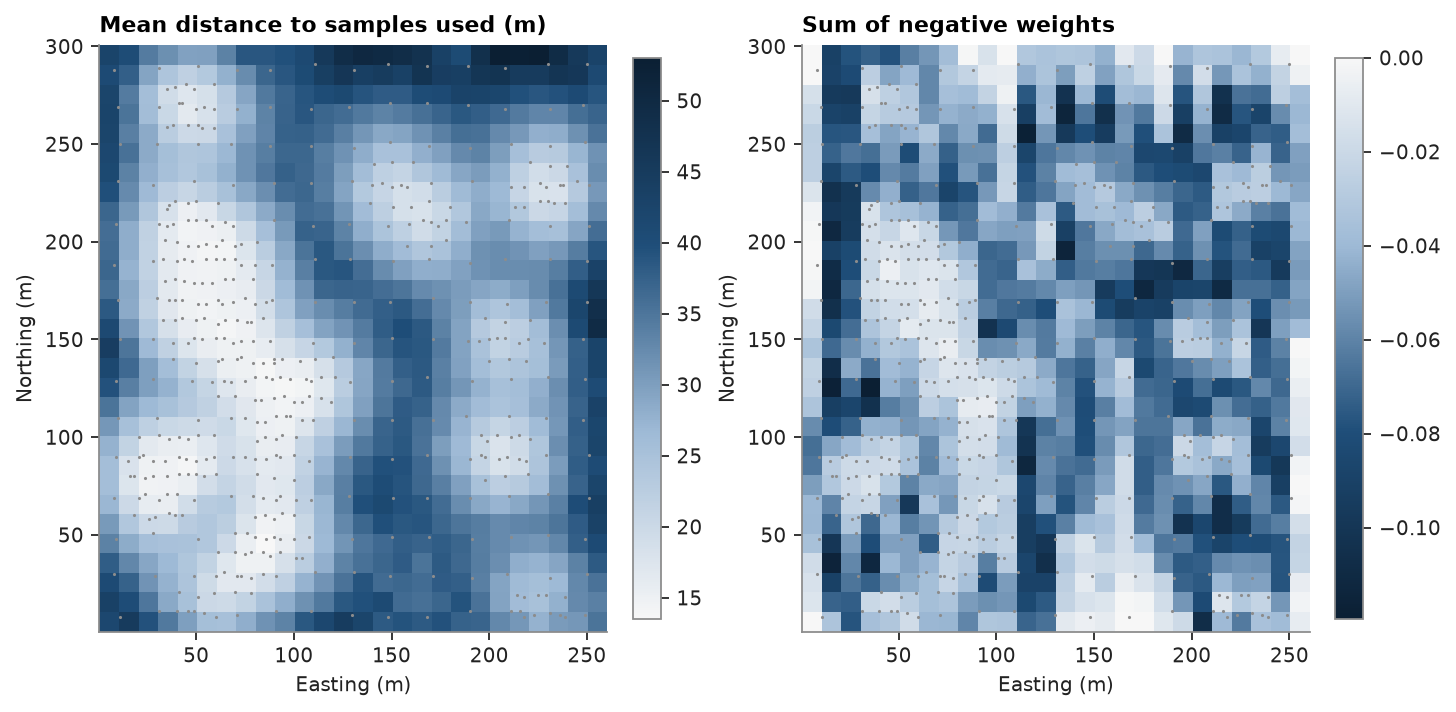
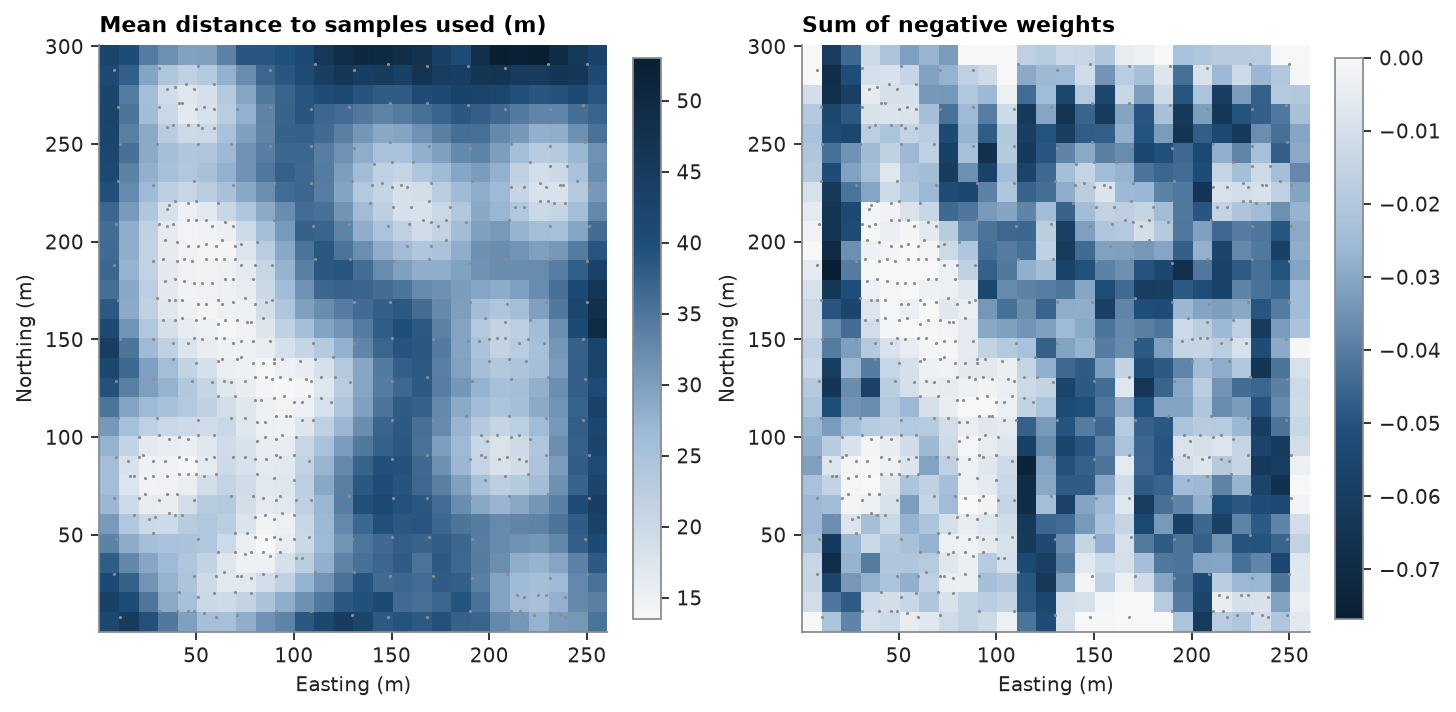
docs(examples): re-render validation chapter against the nested variogram model
PR #155 rendered its cross-validation and negative-weight output with the single-structure model; PR #156 refit the model in parallel. Negative-weight bins move to -0.05/-0.03, since no block now falls below -0.08.

diff --git a/examples/18-validation/example_18.py b/examples/18-validation/example_18.py
@@ -129,8 +129,8 @@ for label, k in (("full search", full), ("ellipse ran out", ~full)):
         f"{label:>15}: {k.mean():4.0%} of blocks, mean distance {d['mean_distance'][k].mean():4.1f} m, "
         f"mean slope {d['slope'][k].mean():.2f}"
     )
-groups = np.digitize(d["negative_weight_sum"], [-0.08, -0.04])
-for g, label in enumerate(("below -0.08", "-0.08 to -0.04", "above -0.04")):
+groups = np.digitize(d["negative_weight_sum"], [-0.05, -0.03])
+for g, label in enumerate(("below -0.05", "-0.05 to -0.03", "above -0.03")):
     k = groups == g
     error = np.sqrt(np.mean((d["value"][k] - true_blocks[k]) ** 2))
     print(

diff --git a/examples/18-validation/README.md b/examples/18-validation/README.md
@@ -90,10 +90,10 @@ for folds in (None, 10, 5, 2):
 </details>
 
 ```text
-leave-one-out: RMSE 189.1 ppm, correlation 0.78, slope 1.08, standardized squared error 0.65
-      10-fold: RMSE 192.8 ppm, correlation 0.77, slope 1.07, standardized squared error 0.67
-       5-fold: RMSE 196.9 ppm, correlation 0.76, slope 1.06, standardized squared error 0.69
-       2-fold: RMSE 205.5 ppm, correlation 0.73, slope 1.06, standardized squared error 0.69
+leave-one-out: RMSE 187.2 ppm, correlation 0.78, slope 1.08, standardized squared error 0.64
+      10-fold: RMSE 191.3 ppm, correlation 0.77, slope 1.07, standardized squared error 0.66
+       5-fold: RMSE 195.4 ppm, correlation 0.76, slope 1.07, standardized squared error 0.68
+       2-fold: RMSE 204.1 ppm, correlation 0.73, slope 1.08, standardized squared error 0.67
 ```
 
 Kriging efficiency compares the block variance with the kriging variance: 1 for a perfectly known block, 0 or less
@@ -165,8 +165,8 @@ for label, k in (("full search", full), ("ellipse ran out", ~full)):
         f"{label:>15}: {k.mean():4.0%} of blocks, mean distance {d['mean_distance'][k].mean():4.1f} m, "
         f"mean slope {d['slope'][k].mean():.2f}"
     )
-groups = np.digitize(d["negative_weight_sum"], [-0.08, -0.04])
-for g, label in enumerate(("below -0.08", "-0.08 to -0.04", "above -0.04")):
+groups = np.digitize(d["negative_weight_sum"], [-0.05, -0.03])
+for g, label in enumerate(("below -0.05", "-0.05 to -0.03", "above -0.03")):
     k = groups == g
     error = np.sqrt(np.mean((d["value"][k] - true_blocks[k]) ** 2))
     print(
@@ -184,10 +184,10 @@ print(
 ```text
     full search:  89% of blocks, mean distance 28.2 m, mean slope 0.95
 ellipse ran out:  11% of blocks, mean distance 40.5 m, mean slope 0.86
-negative weights    below -0.08: 119 blocks, RMSE 135.9 ppm, mean 245 ppm against 202 true
-negative weights -0.08 to -0.04: 358 blocks, RMSE 113.4 ppm, mean 247 ppm against 229 true
-negative weights    above -0.04: 303 blocks, RMSE  85.2 ppm, mean 373 ppm against 366 true
-6 negative estimates, negative weights -0.05 or below
+negative weights    below -0.05: 116 blocks, RMSE 126.8 ppm, mean 212 ppm against 190 true
+negative weights -0.05 to -0.03: 231 blocks, RMSE 106.8 ppm, mean 218 ppm against 194 true
+negative weights    above -0.03: 433 blocks, RMSE  95.7 ppm, mean 359 ppm against 347 true
+4 negative estimates, negative weights -0.04 or below
 ```
 
 <details><summary>Python</summary>
